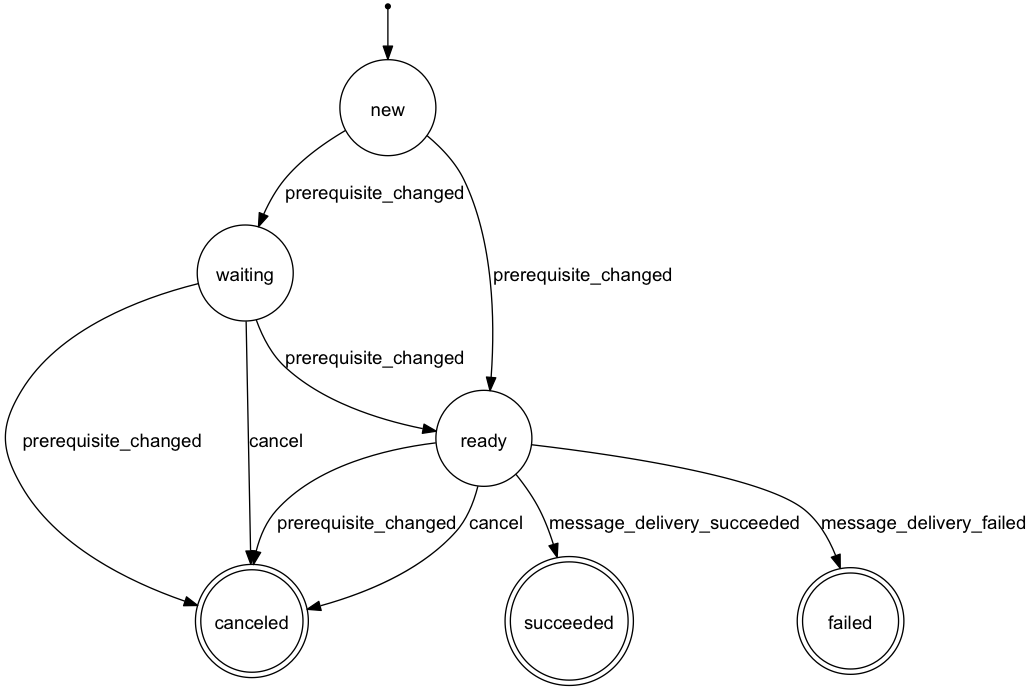
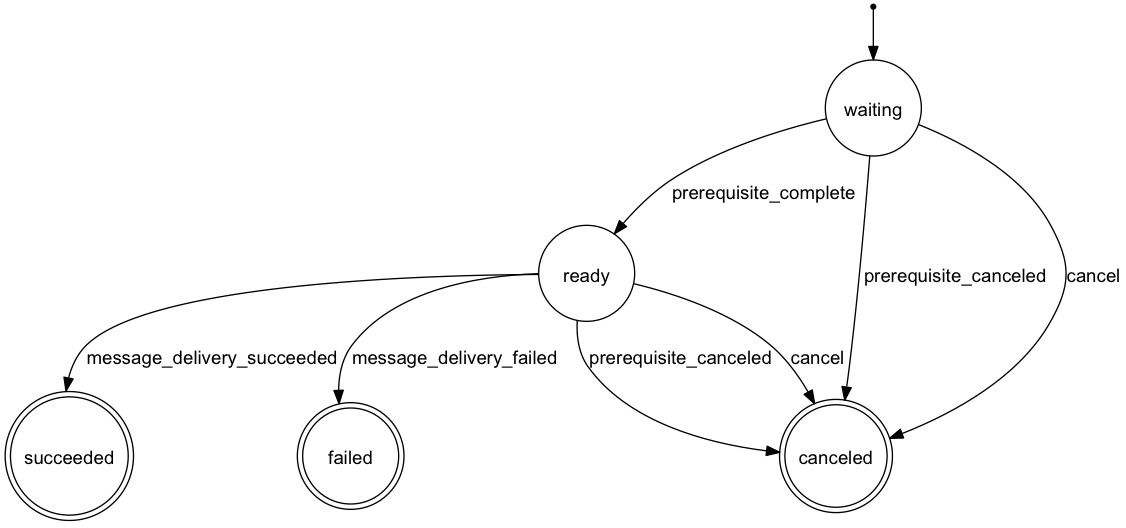
scaling enhancement: replace async polling for completion/cancelation with async (targeted) propigation

diff --git a/lib/orchestrated/completion.rb b/lib/orchestrated/completion.rb
@@ -7,11 +7,22 @@ module Orchestrated
   class CompletionExpression < ActiveRecord::Base
     # I'd like to make this abstract, but Rails gets confused if I do
     # self.abstract_class = true
+    has_many :dependent_associations, :class_name => 'OrchestrationDependency', :foreign_key => 'prerequisite_id'
+    has_many :dependents, :through => :dependent_associations, :autosave => true
     def complete?; throw 'subclass must override!';end
     # for static analysis
     def always_complete?; throw 'subclass must override!';end
     def never_complete?; throw 'subclass must override!';end
     def canceled?; throw 'subclass must override!';end
+    def prerequisite_complete; throw 'subclass must override!';end
+    def notify_dependents_of_completion
+      # NB: we are notifying the Join Model here (it keeps track of status)
+      dependent_associations.each{|d| d.prerequisite_completed}
+    end
+    def notify_dependents_of_cancellation
+      # NB: we are notifying the Join Model here (it keeps track of status)
+      dependent_associations.each{|d| d.prerequisite_canceled}
+    end
   end
   class Complete < CompletionExpression
     def complete?; true; end
@@ -28,31 +39,43 @@ module Orchestrated
   end
   class CompositeCompletion < CompletionExpression
     # self.abstract_class = true
-    has_many :composited_completions
-    has_many :completion_expressions, :through => :composited_completions, :source => :completion_expression
-    def +(c); self << c; end # synonym
+    has_many :prerequisite_associations, :class_name => 'OrchestrationDependency', :foreign_key => 'dependent_id'
+    has_many :prerequisites, :through => :prerequisite_associations, :autosave => true
+    def +(c); self << c; end # synonymc
   end
   class LastCompletion < CompositeCompletion
-    def complete?; completion_expressions.all?(&:complete?); end
-    def always_complete?; completion_expressions.empty?; end
-    def never_complete?; completion_expressions.any?(&:never_complete?); end
-    def canceled?; completion_expressions.any?(&:canceled?); end
+    def complete?; prerequisites.all?(&:complete?); end
+    def always_complete?; prerequisites.empty?; end
+    def never_complete?; prerequisites.any?(&:never_complete?); end
+    def canceled?; prerequisites.any?(&:canceled?); end
     def <<(c)
-      completion_expressions << c unless c.always_complete?
+      prerequisites << c unless c.always_complete?
       self
+    end
+    def prerequisite_complete
+      notify_dependents_of_completion unless prerequisite_associations.without_states('complete').exists?
+    end
+    def prerequisite_canceled
+      notify_dependents_of_cancellation
     end
   end
   class FirstCompletion < CompositeCompletion
-    def complete?; completion_expressions.any?(&:complete?); end
-    def always_complete?; completion_expressions.any?(&:always_complete?); end
-    def never_complete?; completion_expressions.empty?; end
-    def canceled?; completion_expressions.all?(&:canceled?); end
+    def complete?; prerequisites.any?(&:complete?); end
+    def always_complete?; prerequisites.any?(&:always_complete?); end
+    def never_complete?; prerequisites.empty?; end
+    def canceled?; prerequisites.all?(&:canceled?); end
     def <<(c)
-      completion_expressions << c unless c.never_complete?
+      prerequisites << c unless c.never_complete?
       self
     end
+    def prerequisite_complete
+      notify_dependents_of_completion
+    end
+    def prerequisite_canceled
+      notify_dependents_of_completion unless prerequisite_associations.without_states('canceled').exists?
+    end
   end
-  class OrchestrationCompletion < CompletionExpression
+  class OrchestrationCompletionShim < CompletionExpression
     # Arguably, it is "bad" to make this class derive
     # from CompletionExpression since doing so introduces
     # the orchestration_id into the table (that constitutes
@@ -61,12 +84,28 @@ module Orchestrated
     # understand joins when computing dependents at runtime.
     belongs_to :orchestration
     validates_presence_of :orchestration_id
+  end
+  # wraps an Orchestration and makes it usable as a completion expression
+  class OrchestrationCompletion < OrchestrationCompletionShim
     delegate :complete?, :canceled?, :cancel!, :to => :orchestration
     def always_complete?; false; end
     def never_complete?; false; end
+    def prerequisite_complete
+      notify_dependents_of_completion
+    end
+    def prerequisite_canceled
+      notify_dependents_of_cancellation
+    end
   end
-  class CompositedCompletion < ActiveRecord::Base
-    belongs_to :composite_completion
-    belongs_to :completion_expression
+  # registers an Orchestration's interest in a completion expression
+  class OrchestrationInterest < OrchestrationCompletionShim
+    has_one :prerequisite_association, :class_name => 'OrchestrationDependency', :foreign_key => 'dependent_id'
+    has_one :prerequisite, :through => :prerequisite_association, :autosave => true
+    def prerequisite_complete
+      orchestration.prerequisite_complete
+    end
+    def prerequisite_canceled
+      orchestration.prerequisite_canceled
+    end
   end
 end

diff --git a/lib/orchestrated/orchestration.rb b/lib/orchestrated/orchestration.rb
@@ -10,14 +10,13 @@ module Orchestrated
 
     serialize :handler
 
-    belongs_to :prerequisite, :class_name => 'CompletionExpression'
+    has_one :prerequisite, :class_name => 'OrchestrationInterest'
+    has_one :dependent, :class_name => 'OrchestrationCompletion'
+
     belongs_to :delayed_job, :polymorphic => true # loose-ish coupling with delayed_job
 
-    has_many :orchestration_completions
-
     complete_states = [:succeeded, :failed]
-    state_machine :initial => :new do
-      state :new
+    state_machine :initial => :waiting do
       state :waiting
       state :ready
       state :succeeded
@@ -36,10 +35,12 @@ module Orchestrated
         end
       end
 
-      event :prerequisite_changed do
-        transition [:new, :waiting] => :ready, :if => lambda {|orchestration| orchestration.prerequisite.complete?}
-        transition [:ready, :waiting] => :canceled, :if => lambda {|orchestration| orchestration.prerequisite.canceled?}
-        transition :new => :waiting # otherwise
+      event :prerequisite_complete do
+        transition :waiting => :ready
+      end
+
+      event :prerequisite_canceled do
+        transition [:waiting, :ready] => :canceled
       end
 
       event :message_delivery_succeeded do
@@ -63,18 +64,11 @@ module Orchestrated
       end
 
       after_transition any => complete_states do |orchestration, transition|
-        # completion may make other orchestrations ready to run…
-        # TODO: this is a prime target for benchmarking
-        (Orchestration.with_state('waiting').all - [orchestration]).each do |other|
-          other.prerequisite_changed
-        end
+        orchestration.dependent.prerequisite_complete
       end
 
       after_transition [:ready, :waiting] => :canceled do |orchestration, transition|
-        # cancellation may cancel other orchestrations
-        (Orchestration.with_states(:ready, :waiting).all - [orchestration]).each do |other|
-          other.prerequisite_changed
-        end
+        orchestration.dependent.prerequisite_canceled
       end
 
     end
@@ -88,9 +82,16 @@ module Orchestrated
         # wee! static analysis FTW!
         raise 'prerequisite can never be complete' if prerequisite.never_complete?
 
-        # saves object as side effect of this assignment
-        # also moves orchestration to :ready state
-        orchestration.prerequisite  = prerequisite
+        prerequisite.save!
+        orchestration.save!
+        interest = OrchestrationInterest.new.tap do |interest|
+          interest.prerequisite = prerequisite
+          interest.orchestration = orchestration
+        end
+        interest.save!
+
+        # prime the pump for a constant prerequisite
+        orchestration.prerequisite_complete! if prerequisite.complete?
      end
     end
 
@@ -100,12 +101,6 @@ module Orchestrated
 
     def dequeue
       delayed_job.destroy# if DelayedJob.exists?(delayed_job_id)
-    end
-
-    alias_method :prerequisite_old_equals, :prerequisite=
-    def prerequisite=(*args)
-      prerequisite_old_equals(*args)
-      prerequisite_changed
     end
 
   end

diff --git a/spec/unit/completion_spec.rb b/spec/unit/completion_spec.rb
@@ -4,7 +4,7 @@ require 'orchestrated'
 
 shared_examples_for 'literally complete' do
   it 'should immediately enqueue the dependent orchestration' do
-    expect(DJ.job_count).to be(1)
+    expect(DJ.job_count).to eq(1)
   end
   it 'should cause the dependent orchestration to run immediately' do
     First.any_instance.should_receive(:do_first_thing)
@@ -31,7 +31,7 @@ describe Orchestrated::CompletionExpression do
   context 'OrchestrationCompletion' do
     before(:each){Second.new.orchestrated( First.new.orchestrated.do_first_thing(3)).do_second_thing(4)}
     it 'should block second orchestration until after first runs' do
-      expect(DJ.job_count).to be(1)
+      expect(DJ.job_count).to eq(1)
     end
     it 'should run second orchestration after first is complete' do
       Second.any_instance.should_receive(:do_second_thing)
@@ -46,7 +46,7 @@ describe Orchestrated::CompletionExpression do
           ).do_second_thing(5)
       end
       it 'should immediately enqueue the dependent orchestration' do
-        expect(DJ.job_count).to be(1)
+        expect(DJ.job_count).to eq(1)
       end
     end
     context 'given two OrchestrationCompletions' do
@@ -57,9 +57,9 @@ describe Orchestrated::CompletionExpression do
           ).do_second_thing(5)
       end
       it 'should enqueue the dependent orchestration as soon as the first prerequisite completes' do
-        expect(DJ.job_count).to be(2)
+        expect(DJ.job_count).to eq(2)
         DJ.work(1)
-        expect(DJ.job_count).to be(2)
+        expect(DJ.job_count).to eq(2)
       end
       it 'should cause the dependent orchestration to run eventually' do
         Second.any_instance.should_receive(:do_second_thing).with(5)
@@ -80,9 +80,9 @@ describe Orchestrated::CompletionExpression do
           ).do_second_thing(5)
       end
       it 'should not enqueue the dependent orchestration as soon as the first prerequisite completes' do
-        expect(DJ.job_count).to be(2)
+        expect(DJ.job_count).to eq(2)
         DJ.work(1)
-        expect(DJ.job_count).to be(1)
+        expect(DJ.job_count).to eq(1)
       end
       it 'should not run the dependent orchestration as soon as the first prerequisite completes' do
         Second.any_instance.should_not_receive(:do_second_thing)

diff --git a/spec/unit/failure_spec.rb b/spec/unit/failure_spec.rb
@@ -12,10 +12,10 @@ describe 'failure' do
         DJ.work(1)
       end
       it 'should leave the orchestration in the ready state' do
-        expect(Orchestrated::Orchestration.with_state('ready').count).to be(1)
+        expect(Orchestrated::Orchestration.with_state('ready').count).to eq(1)
       end
       it 'should leave the orchestration in the run queue' do
-        expect(DJ.job_count).to be(1)
+        expect(DJ.job_count).to eq(1)
       end
       context 'on first retry' do
         it 'should retry with same arguments' do
@@ -29,7 +29,7 @@ describe 'failure' do
         DJ.work_now(DJ.max_attempts)
       end
       it 'should leave the orchestration in the failed state' do
-        expect(Orchestrated::Orchestration.with_state('failed').count).to be(1)
+        expect(Orchestrated::Orchestration.with_state('failed').count).to eq(1)
       end
       context 'on first subsequent retry' do
         it 'should never deliver the orchestrated message again' do

diff --git a/lib/orchestrated/dependency.rb b/lib/orchestrated/dependency.rb
@@ -1,0 +1,25 @@
+require 'state_machine'
+
+module Orchestrated
+  class OrchestrationDependency < ActiveRecord::Base
+    belongs_to :dependent, :class_name => 'CompletionExpression'
+    belongs_to :prerequisite, :class_name => 'CompletionExpression'
+    state_machine :initial => :incomplete do
+      state :incomplete
+      state :complete
+      state :canceled
+      event :prerequisite_completed do
+        transition :incomplete => :complete
+      end
+      event :prerequisite_canceled do
+        transition :incomplete => :canceled
+      end
+      after_transition any => :complete do |orchestration, transition|
+        orchestration.dependent.prerequisite_complete
+      end
+      after_transition any => :canceled do |orchestration, transition|
+        orchestration.dependent.prerequisite_canceled
+      end
+    end
+  end
+end

diff --git a/lib/generators/orchestrated/templates/migration.rb b/lib/generators/orchestrated/templates/migration.rb
@@ -15,14 +15,15 @@ class CreateOrchestrated < ActiveRecord::Migration
       # the Rails model
       table.references :orchestration
     end
-    create_table :composited_completions do |table|
-      table.references :composite_completion
-      table.references :completion_expression
+    create_table :orchestration_dependencies do |table|
+      table.string     :state
+      table.references :dependent
+      table.references :prerequisite
     end
   end
 
   def self.down
-    drop_table :composited_completions
+    drop_table :orchestration_dependencies
     drop_table :completion_expressions
     drop_table :orchestrations
   end

diff --git a/spec/spec_helper.rb b/spec/spec_helper.rb
@@ -58,9 +58,10 @@ ActiveRecord::Schema.define do
       # the Rails model
       table.references :orchestration
     end
-    create_table :composited_completions do |table|
-      table.references :composite_completion
-      table.references :completion_expression
+    create_table :orchestration_dependencies do |table|
+      table.string     :state
+      table.references :dependent
+      table.references :prerequisite
     end
 end
 

diff --git a/lib/orchestrated.rb b/lib/orchestrated.rb
@@ -1,6 +1,7 @@
 require "orchestrated/version"
 require 'orchestrated/base'
 require 'orchestrated/completion'
+require 'orchestrated/dependency'
 require 'orchestrated/message_delivery'
 require 'orchestrated/orchestration'
 require 'orchestrated/object'

diff --git a/spec/unit/delayed_job_spec.rb b/spec/unit/delayed_job_spec.rb
@@ -52,7 +52,7 @@ describe Delayed::Job do
       job.custom_action
     end
     it 'should start with an empty queue' do
-      expect(DJ.job_count).to be(0)
+      expect(DJ.job_count).to eq(0)
     end
     it 'should enqueue a job' do
       expect {

diff --git a/spec/unit/rspec_spec.rb b/spec/unit/rspec_spec.rb
@@ -14,7 +14,7 @@ describe 'rspec' do
         block = block_arg
       }
       Foo.new.bump(1){|hello| puts hello}
-      expect(x).to be(1)
+      expect(x).to eq(1)
       expect(block).to be_kind_of(Proc)
     end
   end

diff --git a/lib/orchestrated/version.rb b/lib/orchestrated/version.rb
@@ -1,3 +1,3 @@
 module Orchestrated
-  VERSION = "0.0.3"
+  VERSION = "0.0.4"
 end
